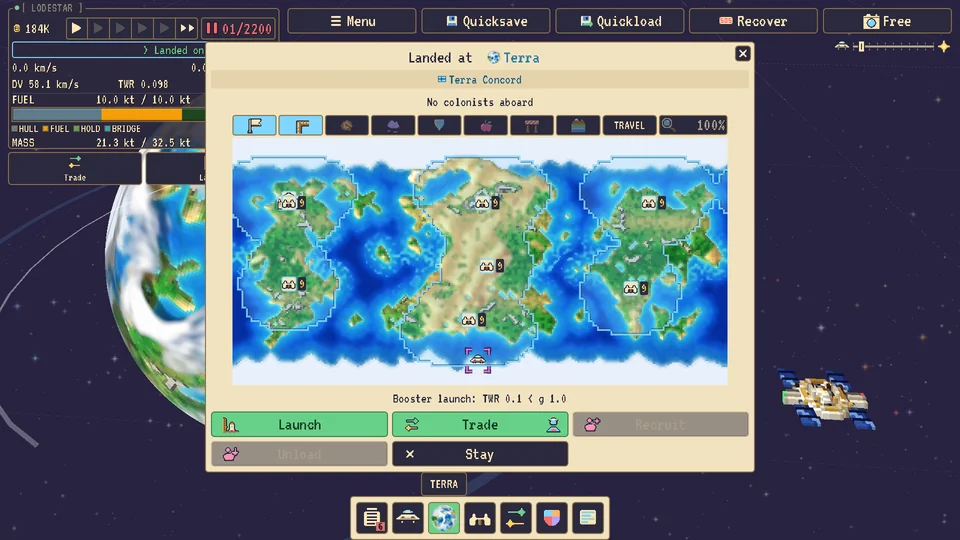
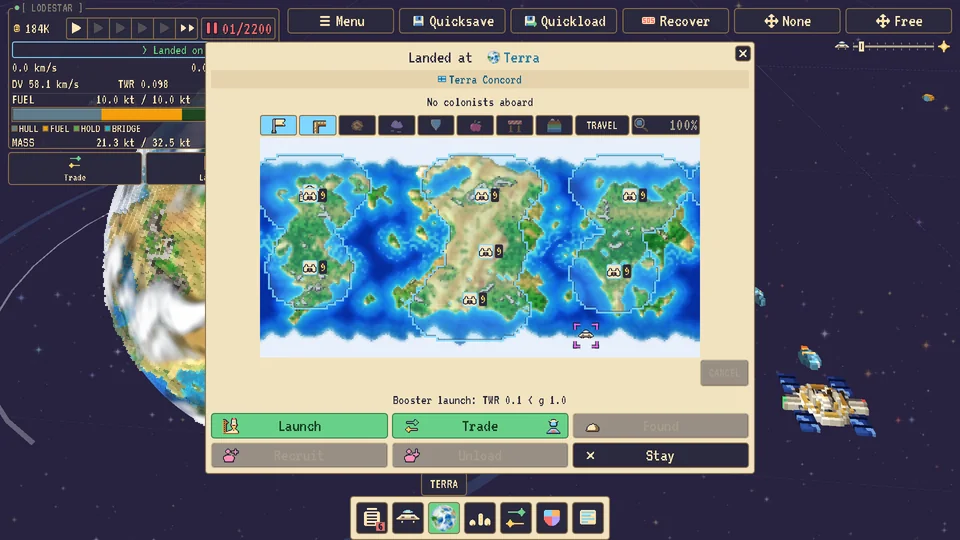
Voxel-era panels: Landed re-shot, Aquara world page after 20 years, Lutum and Silva close-ups

diff --git a/index.html b/index.html
@@ -110,12 +110,11 @@
       <p>An endless timeline makes the stars and terraforming planets within reach in a search
          for &ldquo;New-Terra&rdquo;.</p>
     </div>
-    <!-- Stand-in: swap for a full-width still of the world page's Atmosphere / Habitability section. -->
     <figure class="wide-shot">
-      <img src="img/panel-world-info-960.webp"
-           srcset="img/panel-world-info-960.webp 960w, img/panel-world-info.webp 1920w"
+      <img src="img/panel-world-info-aquara-960.webp"
+           srcset="img/panel-world-info-aquara-960.webp 960w, img/panel-world-info-aquara.webp 1920w"
            sizes="100vw" width="1920" height="1080" loading="lazy"
-           alt="Terra's world page: atmosphere, gravity, habitability and population stats above its surface map">
+           alt="Aquara's world page twenty years in: its description, atmosphere, habitability, population, buildings and settlements">
     </figure>
   </section>
   <section class="spread">
@@ -125,13 +124,22 @@
          resources, markets and populations evolve over time, influenced by player
          action&hellip;or inaction.</p>
     </div>
-    <!-- Stand-in: swap for a full-width still of the world page's Population section. -->
-    <figure class="wide-shot">
-      <img src="img/panel-markets-960.webp"
-           srcset="img/panel-markets-960.webp 960w, img/panel-markets.webp 1920w"
-           sizes="100vw" width="1920" height="1080" loading="lazy"
-           alt="The markets panel: goods, stations, prices and supply across a solar system">
-    </figure>
+    <div class="wide-shot pair">
+      <figure>
+        <img src="img/tilt-lutum-close-960.webp"
+             srcset="img/tilt-lutum-close-960.webp 960w, img/tilt-lutum-close.webp 1920w"
+             sizes="(max-width: 760px) 100vw, 50vw" width="1920" height="1080" loading="lazy"
+             alt="Lutum up close: a sunlit voxel world, tan terrain breaking through swirling cloud, a ship burning past">
+        <figcaption class="pixel">Lutum</figcaption>
+      </figure>
+      <figure>
+        <img src="img/tilt-silva-close-960.webp"
+             srcset="img/tilt-silva-close-960.webp 960w, img/tilt-silva-close.webp 1920w"
+             sizes="(max-width: 760px) 100vw, 50vw" width="1920" height="1080" loading="lazy"
+             alt="Silva up close: green voxel continents and blue seas under ribbons of cloud">
+        <figcaption class="pixel">Silva</figcaption>
+      </figure>
+    </div>
   </section>
 
   <div class="wrap features">

diff --git a/style.css b/style.css
@@ -125,6 +125,13 @@ nav a:hover, nav a:focus-visible, nav a[aria-current="page"] { color: var(--ink)
   content: ""; position: absolute; inset: 0; pointer-events: none;
   background: linear-gradient(to bottom, var(--sky) 0%, transparent 18%, transparent 82%, var(--sky) 100%);
 }
+/* Two worlds side by side, each faded like a single spread */
+.wide-shot.pair { display: grid; grid-template-columns: 1fr 1fr; }
+.wide-shot.pair figure { position: relative; margin: 0; }
+.wide-shot.pair img { display: block; width: 100%; height: auto; aspect-ratio: 16 / 9; }
+.wide-shot.pair figcaption { position: absolute; left: 50%; bottom: 3%; z-index: 1; transform: translateX(-50%);
+                             font-size: 18px; color: var(--ink); text-shadow: 0 2px 0 var(--sky-deep); }
+@media (max-width: 760px) { .wide-shot.pair { grid-template-columns: 1fr; } }
 .wide-shot.placeholder { display: grid; place-items: center; aspect-ratio: 16 / 9; width: min(640px, calc(100% - 32px));
                          margin: 0 auto; border: 2px dashed var(--line); border-radius: 8px;
                          color: var(--muted); font-size: 14px; text-align: center; padding: 16px; }
